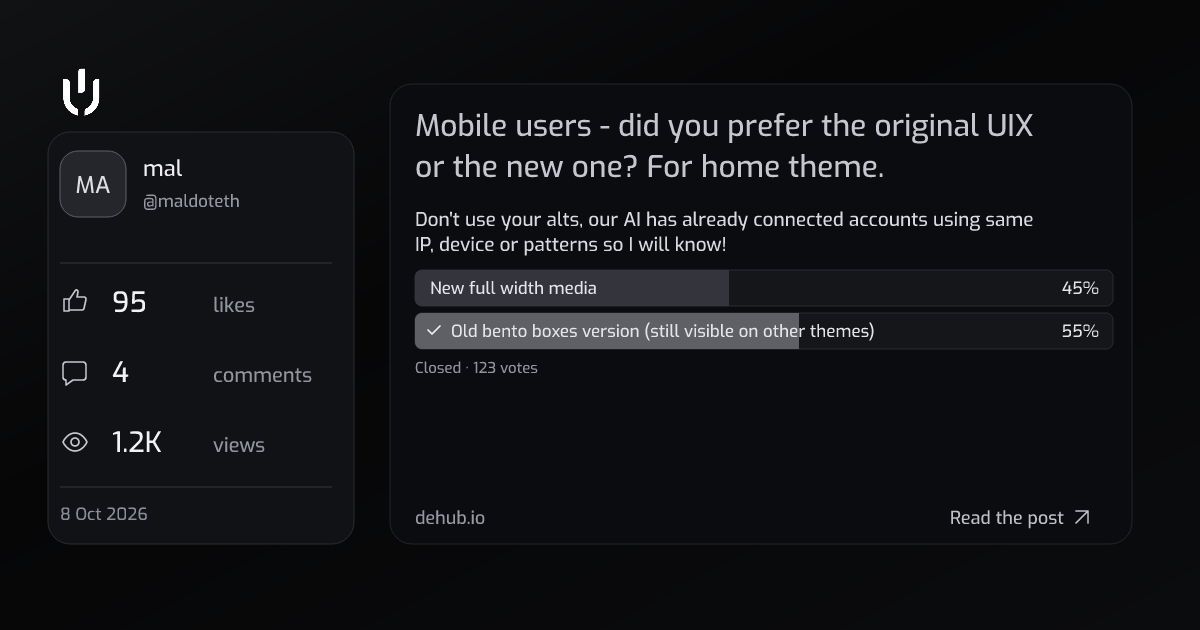
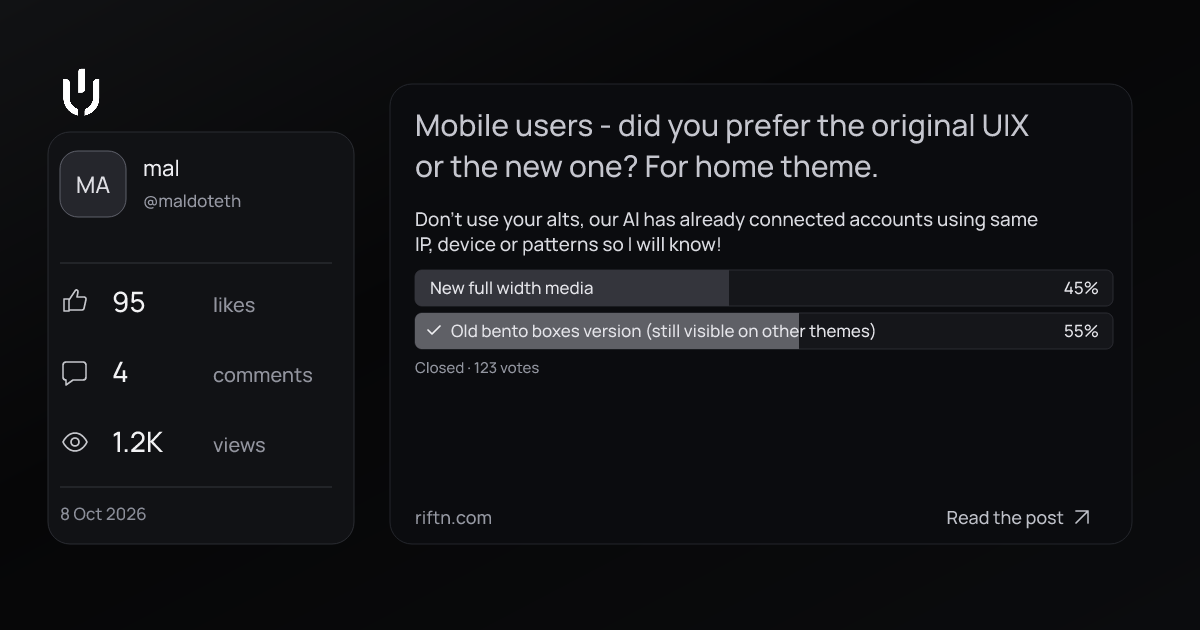
Share cards say riftn.com, blog share pictures load again (#3715)
Post, profile and stage share pictures print riftn.com and use Manrope so accented titles render; card URLs bumped so platforms refetch. Blog and guide previews name their source on dehub.io so the image transform stops refusing them.

diff --git a/server/post-share-card.js b/server/post-share-card.js
@@ -1,4 +1,4 @@
-export const POST_CARD_VERSION = 'v5';
+export const POST_CARD_VERSION = 'v6';
 export const POST_CARD_TTL = 300;
 const ORIGIN = 'https://riftn.com';
 const CDN = 'https://dehubcdn.ams3.cdn.digitaloceanspaces.com';
@@ -265,9 +265,9 @@ function renderMediaPanel(data, media) {
     <rect x="390" y="${caption.length ? 324 : 414}" width="742" height="${caption.length ? 220 : 130}" fill="url(#foot)" clip-path="url(#panel)"/>
     <rect x="390" y="84" width="742" height="460" rx="22" fill="none" stroke="#22242a"/>
     ${play}
-    <g font-family="Exo" font-weight="500">
+    <g font-family="Manrope" font-weight="500">
       ${textLines(caption, 415, captionY, 28, 36, '#f4f4f6')}
-      <text x="415" y="524" font-size="18" fill="#c5c6ce">dehub.io</text>
+      <text x="415" y="524" font-size="18" fill="#c5c6ce">riftn.com</text>
       <text x="1064" y="524" text-anchor="end" font-size="18" fill="#f1f1f4">${data.media.video ? 'Watch on Riftn' : 'View the post'}</text>
       <path d="M1076 523l12-12m-12 0h12v12" fill="none" stroke="#f1f1f4" stroke-width="1.5" stroke-linecap="round" stroke-linejoin="round"/>
     </g>
@@ -312,27 +312,27 @@ export function renderPostCardSvg(data, { logo, avatar = '', badges = [], media 
   <path d="M60 263H332M60 487H332" fill="none" stroke="#33353b"/>
   <image x="43" y="59" width="77" height="66" xlink:href="${logo}"/>
   <rect x="60" y="151" width="66" height="66" rx="18" fill="#25262c" stroke="#5d5f69"/>
-  ${avatar ? `<image x="60" y="151" width="66" height="66" preserveAspectRatio="xMidYMid slice" clip-path="url(#face)" xlink:href="${avatar}"/>` : `<text x="93" y="193" text-anchor="middle" fill="#dedee3" font-family="Exo" font-size="23">${escape(initials)}</text>`}
-  <g font-family="Exo" font-weight="500">
+  ${avatar ? `<image x="60" y="151" width="66" height="66" preserveAspectRatio="xMidYMid slice" clip-path="url(#face)" xlink:href="${avatar}"/>` : `<text x="93" y="193" text-anchor="middle" fill="#dedee3" font-family="Manrope" font-size="23">${escape(initials)}</text>`}
+  <g font-family="Manrope" font-weight="500">
     ${identity.svg}
     <text x="143" y="${identity.handleY}" font-size="17" fill="#9698a3">${escape(wrapPostText(data.handle ? `@${data.handle}` : '', 17, 184, 1)[0] || '')}</text>
     ${stats}
     <text x="60" y="520" font-size="17" fill="#8b8e99">${escape(dateText)}</text>
   </g>
-  ${showMedia ? renderMediaPanel(data, media) : `<g font-family="Exo" font-weight="500">
+  ${showMedia ? renderMediaPanel(data, media) : `<g font-family="Manrope" font-weight="500">
     <g clip-path="url(#copy)">
       ${textLines(title.lines, 415, title.y, title.size, title.step, '#f4f4f6')}
       ${textLines(body.lines, 415, body.y, body.size, body.step, '#c5c6ce')}
       ${renderPoll(poll)}
     </g>
-    <text x="415" y="524" font-size="18" fill="#9699a3">dehub.io</text>
+    <text x="415" y="524" font-size="18" fill="#9699a3">riftn.com</text>
     <text x="1064" y="524" text-anchor="end" font-size="18" fill="#bfc1c9">Read the post</text>
     <path d="M1076 523l12-12m-12 0h12v12" fill="none" stroke="#bfc1c9" stroke-width="1.5" stroke-linecap="round" stroke-linejoin="round"/>
   </g>`}
   </svg>`;
 }
 
-export const PROFILE_CARD_VERSION = 'v1';
+export const PROFILE_CARD_VERSION = 'v2';
 const PROFILE_HANDLE = /^[A-Za-z0-9_][A-Za-z0-9_.-]{0,63}$/;
 
 export function profileShareImageUrl(handle) {
@@ -391,12 +391,12 @@ export function renderProfileCardSvg(data, { logo, avatar = '', chrome = '' }) {
   <rect x="68" y="84" width="1064" height="460" rx="22" fill="#0b0c0f" stroke="#22242a"/>
   <image x="43" y="59" width="77" height="66" xlink:href="${logo}"/>
   <rect x="110" y="190" width="220" height="220" rx="56" fill="#25262c" stroke="#5d5f69"/>
-  ${avatar ? `<image x="110" y="190" width="220" height="220" preserveAspectRatio="xMidYMid slice" clip-path="url(#face)" xlink:href="${avatar}"/>` : `<text x="220" y="325" text-anchor="middle" fill="#dedee3" font-family="Exo" font-size="76">${escape(initials)}</text>`}
-  <g font-family="Exo" font-weight="500">
+  ${avatar ? `<image x="110" y="190" width="220" height="220" preserveAspectRatio="xMidYMid slice" clip-path="url(#face)" xlink:href="${avatar}"/>` : `<text x="220" y="325" text-anchor="middle" fill="#dedee3" font-family="Manrope" font-size="76">${escape(initials)}</text>`}
+  <g font-family="Manrope" font-weight="500">
     ${textLines(name, 380, nameY, 56, 66, '#f4f4f6')}
     <text x="380" y="${handleY}" font-size="28" fill="#9698a3">${escape(wrapPostText(`@${data.handle}`, 28, 640, 1)[0])}</text>
     ${facts ? `<text x="380" y="${handleY + 62}" font-size="26" fill="#d9dae0">${escape(facts)}</text>` : ''}
-    <text x="110" y="508" font-size="18" fill="#9699a3">dehub.io</text>
+    <text x="110" y="508" font-size="18" fill="#9699a3">riftn.com</text>
     <text x="1064" y="508" text-anchor="end" font-size="18" fill="#bfc1c9">Follow on Riftn</text>
     <path d="M1076 507l12-12m-12 0h12v12" fill="none" stroke="#bfc1c9" stroke-width="1.5" stroke-linecap="round" stroke-linejoin="round"/>
   </g>

diff --git a/src/test/structured-data.test.ts b/src/test/structured-data.test.ts
@@ -179,7 +179,7 @@ describe('edge-rendered pages', () => {
     expect(trail['@type']).toBe('BreadcrumbList');
     const image = meta(body, 'og:image')!.replace(/&amp;/g, '&');
     // The post's own banner, read straight from /media and made 1200x630.
-    expect(image).toBe(`https://dehub.io/cdn-cgi/image/fit=cover,width=1200,height=630,format=jpeg,quality=80/https://riftn.com${post.bannerImage}`);
+    expect(image).toBe(`https://dehub.io/cdn-cgi/image/fit=cover,width=1200,height=630,format=jpeg,quality=80/https://dehub.io${post.bannerImage}`);
     expect(meta(body, 'og:image:width')).toBe('1200');
   });
 
@@ -276,7 +276,7 @@ describe('entity pages', () => {
     const { res, body } = await crawl('/app/post/6127/duets');
     expect(res.status).toBe(200);
     expect(meta(body, 'og:title')).toBe('Duets of Dance by @mal | Riftn');
-    expect(meta(body, 'og:image')).toBe('https://riftn.com/_og/post/v5/6127.png');
+    expect(meta(body, 'og:image')).toBe('https://riftn.com/_og/post/v6/6127.png');
     expect(body).toContain('<link rel="canonical" href="https://riftn.com/app/post/6127/duets">');
     expect(types(body)).toContain('CollectionPage');
   });
@@ -286,7 +286,7 @@ describe('entity pages', () => {
     const { res, body } = await crawl('/app/post/6127/reactions');
     expect(res.status).toBe(200);
     expect(meta(body, 'og:title')).toBe('Reactions to Dance by @mal | Riftn');
-    expect(meta(body, 'og:image')).toBe('https://riftn.com/_og/post/v5/6127.png');
+    expect(meta(body, 'og:image')).toBe('https://riftn.com/_og/post/v6/6127.png');
     expect(body).toContain('<link rel="canonical" href="https://riftn.com/app/post/6127/reactions">');
     expect(types(body)).toContain('CollectionPage');
   });
@@ -313,7 +313,7 @@ describe('entity pages', () => {
     expect(types(body)).toContain('OnlineStore');
     expect(types(body)).not.toContain('Store');
     expect(meta(body, 'og:image')).toBe(
-      'https://dehub.io/cdn-cgi/image/fit=cover,width=1200,height=630,format=jpeg,quality=80/https://riftn.com/_og/storage/store-media/abc/banner.png',
+      'https://dehub.io/cdn-cgi/image/fit=cover,width=1200,height=630,format=jpeg,quality=80/https://dehub.io/_og/storage/store-media/abc/banner.png',
     );
     expect(meta(body, 'og:image:width')).toBe('1200');
     expect(meta(body, 'og:image:height')).toBe('630');
@@ -461,8 +461,8 @@ describe('proxied pages', () => {
     const record = { tokenId: 6127, mintername: 'jesse', description: 'Clip night', postType: 'video', videoUrl: 'videos/6127.mp4', thumbnail_url: 'images/6127.jpg' };
     network({ [FN]: html(page), 'https://api.dehub.io/api/nft_info/6127': json({ result: record }) });
     let { body } = await crawl('/app/post/6127');
-    expect(meta(body, 'og:image')).toBe('https://riftn.com/_og/post/v5/6127.png');
-    expect(meta(body, 'twitter:image')).toBe('https://riftn.com/_og/post/v5/6127.png');
+    expect(meta(body, 'og:image')).toBe('https://riftn.com/_og/post/v6/6127.png');
+    expect(meta(body, 'twitter:image')).toBe('https://riftn.com/_og/post/v6/6127.png');
     expect(meta(body, 'twitter:card')).toBe('summary_large_image');
     expect(meta(body, 'og:image:width')).toBe('1200');
     expect(meta(body, 'og:image:height')).toBe('630');
@@ -494,7 +494,7 @@ describe('proxied pages', () => {
     expect(page['@type']).toBe('CollectionPage');
     expect(page.name).toBe('Riftn: community on Riftn');
     expect(meta(body, 'og:image')).toBe(
-      'https://dehub.io/cdn-cgi/image/fit=pad,width=1200,height=630,background=%23000000,format=jpeg,quality=80/https://riftn.com/_og/storage/community-media/dehub/avatar.jpg',
+      'https://dehub.io/cdn-cgi/image/fit=pad,width=1200,height=630,background=%23000000,format=jpeg,quality=80/https://dehub.io/_og/storage/community-media/dehub/avatar.jpg',
     );
     expect(meta(body, 'og:image:width')).toBe('1200');
     expect(meta(body, 'og:image:height')).toBe('630');

diff --git a/CLOUDFLARE_WORKER_SEO.js b/CLOUDFLARE_WORKER_SEO.js
@@ -660,9 +660,9 @@ function buildBlogShareImage(post) {
     const w = Number(post.bannerWidth), h = Number(post.bannerHeight);
     const ratio = w > 0 && h > 0 ? w / h : 1200 / 630;
     const fit = ratio >= 1.75 && ratio <= 2.05 ? CARD_COVER : BLOG_CARD_PAD;
-    return `${IMAGE_TRANSFORM_BASE}${fit}/${banner}`;
+    return `${IMAGE_TRANSFORM_BASE}${fit}/${TRANSFORM_SOURCE_ORIGIN}${banner.slice(APP_URL.length)}`;
   }
-  return `${IMAGE_TRANSFORM_BASE}${CARD_COVER}/${APP_URL}${OG_SOURCE_PREFIX}blog/${encodeURIComponent(post.slug)}`;
+  return `${IMAGE_TRANSFORM_BASE}${CARD_COVER}/${TRANSFORM_SOURCE_ORIGIN}${OG_SOURCE_PREFIX}blog/${encodeURIComponent(post.slug)}`;
 }
 
 /**
@@ -2977,6 +2977,9 @@ async function fetchPostRecord(tokenId) {
 const CDN_ORIGIN = 'https://dehubcdn.ams3.cdn.digitaloceanspaces.com';
 // Image transforms are enabled on the dehub.io zone, which stays ours.
 const IMAGE_TRANSFORM_BASE = 'https://dehub.io/cdn-cgi/image/';
+// The dehub.io transform refuses a riftn.com source (403, another zone), so
+// our own pictures are named on dehub.io; it follows the 301 to riftn.com.
+const TRANSFORM_SOURCE_ORIGIN = 'https://dehub.io';
 
 function transformedImageUrl(url) {
   if (!url.startsWith(`${CDN_ORIGIN}/`)) return url;
@@ -3021,7 +3024,7 @@ function shareCardImage(url) {
   let source = null;
   if (src.startsWith(`${CDN_ORIGIN}/`)) source = src;
   else if (src.startsWith(`${SUPABASE_STORAGE_PUBLIC}/`)) {
-    source = `${APP_URL}${OG_SOURCE_PREFIX}storage/${src.slice(SUPABASE_STORAGE_PUBLIC.length + 1)}`;
+    source = `${TRANSFORM_SOURCE_ORIGIN}${OG_SOURCE_PREFIX}storage/${src.slice(SUPABASE_STORAGE_PUBLIC.length + 1)}`;
   }
   if (!source) return null;
   const options = /\/avatars?[/_.-]/i.test(src) ? CARD_PAD : CARD_COVER;
@@ -6719,7 +6722,7 @@ async function handleRequest(request, env, ctx) {
   // Share-card sources for the image transform (see shareCardImage). Ahead of
   // the `/_` static-asset skip below, which would hand these to ASSETS.
   // Older installed apps and already-shared URLs continue to receive the current card.
-  const textPostCard = pathname.match(/^\/_og\/post\/v(?:1|2|3|4|5)\/([1-9]\d{0,14})\.png$/);
+  const textPostCard = pathname.match(/^\/_og\/post\/v(?:1|2|3|4|5|6)\/([1-9]\d{0,14})\.png$/);
   if (textPostCard) {
     const { handlePostShareImage } = await import('./server/post-share-image.js');
     return handlePostShareImage(request, env, ctx, textPostCard[1], fetchPostRecord, {
@@ -6727,12 +6730,12 @@ async function handleRequest(request, env, ctx) {
       price: fetchShareBadgePrice,
     });
   }
-  const profileCard = pathname.match(/^\/_og\/profile\/v1\/([A-Za-z0-9_][A-Za-z0-9_.-]{0,63})\.png$/);
+  const profileCard = pathname.match(/^\/_og\/profile\/v(?:1|2)\/([A-Za-z0-9_][A-Za-z0-9_.-]{0,63})\.png$/);
   if (profileCard) {
     const { handleProfileShareImage } = await import('./server/post-share-image.js');
     return handleProfileShareImage(request, env, ctx, profileCard[1], fetchAccountInfo);
   }
-  const stageCard = pathname.match(/^\/_og\/stage\/v[12]\/([0-9a-fA-F-]{16,64})\.png$/);
+  const stageCard = pathname.match(/^\/_og\/stage\/v[123]\/([0-9a-fA-F-]{16,64})\.png$/);
   if (stageCard) {
     const { handleStageShareImage } = await import('./server/stage-share-image.js');
     return handleStageShareImage(request, env, ctx, stageCard[1], supabaseLookup);

diff --git a/src/pages/app/StatsPage.tsx b/src/pages/app/StatsPage.tsx
@@ -858,14 +858,14 @@ export default function StatsPage() {
     <div className="min-h-screen">
       <SEOHead
         title={_copy("copy.1340eb7a333e", { defaultValue: "Live Site Stats: Riftn Visitors and Members in Real Time" })}
-        description={_copy("copy.e1110847f32e", { defaultValue: "Live numbers for dehub.io: visitors measured at Cloudflare's edge, Riftn's own member counts, and what the platform earns and spends — revenue, costs and where the original token tax went, with every on-chain line linked to its transaction." })}
+        description={_copy("copy.e1110847f32e", { defaultValue: "Live numbers for riftn.com: visitors measured at Cloudflare's edge, Riftn's own member counts, and what the platform earns and spends — revenue, costs and where the original token tax went, with every on-chain line linked to its transaction." })}
         url="https://riftn.com/stats"
         image="https://riftn.com/og/stats.jpg"
         jsonLd={{
           '@context': 'https://schema.org',
           '@type': 'Dataset',
           name: 'Riftn live site statistics',
-          description: _copy("copy.67ae514e929e", { defaultValue: "Edge-measured visitor statistics for dehub.io alongside the platform’s own community figures — members, active users, signups and growth — published live." }),
+          description: _copy("copy.67ae514e929e", { defaultValue: "Edge-measured visitor statistics for riftn.com alongside the platform’s own community figures — members, active users, signups and growth — published live." }),
           url: 'https://riftn.com/stats',
           creator: { '@type': 'Organization', name: 'Riftn' },
           isAccessibleForFree: true,

diff --git a/server/stage-share-card.js b/server/stage-share-card.js
@@ -10,7 +10,7 @@
 import { buildStageCover, stageCoverTitleScale } from '../src/lib/stage-cover.ts';
 import { wrapPostText } from './post-share-card.js';
 
-export const STAGE_CARD_VERSION = 'v2';
+export const STAGE_CARD_VERSION = 'v3';
 const ORIGIN = 'https://riftn.com';
 
 export function stageShareImageUrl(id) {
@@ -120,6 +120,6 @@ export function renderStageCardSvg(stage, images = {}) {
   ${kv ? `<text x="${n(left)}" y="${kvY}" font-family="Consolas" font-size="${kvSize}" fill="#fff" fill-opacity=".6">${escape(wrapPostText(kv, kvSize, 56 * U, 1)[0] || '')}</text>` : ''}
 
   <rect x="${n(left)}" y="${n(H - 4.2 * U - 3.1 * U)}" width="${n(18.4 * U)}" height="${n(3.1 * U)}" rx="${n(0.5 * U)}" fill="#000" fill-opacity=".35" stroke="#fff" stroke-opacity=".3" stroke-width="1.5"/>
-  <text x="${n(left + 1.4 * U)}" y="${n(H - 4.2 * U - 1.05 * U)}" font-family="Consolas" font-size="${n(1.5 * U)}" fill="#fff" fill-opacity=".85">// dehub.io/stages</text>
+  <text x="${n(left + 1.4 * U)}" y="${n(H - 4.2 * U - 1.05 * U)}" font-family="Consolas" font-size="${n(1.5 * U)}" fill="#fff" fill-opacity=".85">// riftn.com/stages</text>
 </svg>`;
 }

diff --git a/src/components/app/profile/UsernameReserve.tsx b/src/components/app/profile/UsernameReserve.tsx
@@ -133,7 +133,7 @@ export function UsernameReserve({ username, onTaken, preview }: Props) {
       ) : null}
 
       <p className="mb-6 max-w-[340px] text-sm leading-relaxed text-zinc-400 [text-wrap:balance]">
-        {state === 'avail' && t('profile.reserve.availableBody', { defaultValue: 'dehub.io/{{name}} is free right now. Reserve it and we hold it for one minute while you sign up.', name })}
+        {state === 'avail' && t('profile.reserve.availableBody', { defaultValue: 'riftn.com/{{name}} is free right now. Reserve it and we hold it for one minute while you sign up.', name })}
         {state === 'held' && t('profile.reserve.heldBody', { defaultValue: 'Nobody else can take @{{name}} until the timer runs out. Finish sign up to keep it.', name })}
         {state === 'ended' && t('profile.reserve.endedBody', { defaultValue: 'Your minute ran out, so @{{name}} is open to everyone again. It is still free.', name })}
         {state === 'busy' && t('profile.reserve.busyBody', { defaultValue: 'Someone is signing up as @{{name}} right now. If they do not finish, it frees up when the timer ends.', name })}

diff --git a/server/post-share-image.js b/server/post-share-image.js
@@ -14,7 +14,7 @@ const bytesToUri = (bytes, type) => {
 };
 
 async function loadAssets(env) {
-  if (!assets) assets = Promise.all(['/brand-kit/font/exo-500.ttf', '/brand/mark-white.png'].map(async (path) => {
+  if (!assets) assets = Promise.all(['/brand-kit/font/manrope-500.ttf', '/brand/mark-white.png'].map(async (path) => {
     const response = await env.ASSETS.fetch(new Request(`https://riftn.com${path}`));
     if (!response.ok || response.headers.get('Content-Type')?.includes('text/html')) throw new Error('Share card asset unavailable');
     return new Uint8Array(await response.arrayBuffer());
@@ -84,7 +84,7 @@ async function brandCard(request, env, headers, reason) {
 }
 
 function renderPng(svg, font) {
-  const renderer = new Resvg(svg, { font: { fontBuffers: [font], defaultFontFamily: 'Exo' } });
+  const renderer = new Resvg(svg, { font: { fontBuffers: [font], defaultFontFamily: 'Manrope' } });
   let rendered;
   try { rendered = renderer.render(); return rendered.asPng(); }
   finally { rendered?.free(); renderer.free(); }

diff --git a/src/features/post/components/ArticleComposer.tsx b/src/features/post/components/ArticleComposer.tsx
@@ -186,7 +186,7 @@ export function ArticleComposer(props: ArticleComposerProps) {
               <div className="space-y-1 p-3">
                 <p className="article-ink line-clamp-1 text-sm font-semibold">{title.trim()}</p>
                 <p className="article-meta line-clamp-2 text-xs">{summary.trim() || t('articles.summaryPlaceholder', 'A sentence or two about your article')}</p>
-                <p className="article-meta text-[11px]">{_copy("copy.bf640b85d499", { defaultValue: "dehub.io · " })}{t('articles.minRead', { count: minutes, defaultValue: '{{count}} min read' })}</p>
+                <p className="article-meta text-[11px]">{_copy("copy.bf640b85d499", { defaultValue: "riftn.com · " })}{t('articles.minRead', { count: minutes, defaultValue: '{{count}} min read' })}</p>
               </div>
             </div>
           </section>

diff --git a/src/pages/app/ProfilePage.tsx b/src/pages/app/ProfilePage.tsx
@@ -569,7 +569,7 @@ export default function ProfilePage() {
             home title, index,follow and a self canonical. */}
         <SEOHead
           title={showReserve ? t('profile.reserve.seoTitle', { defaultValue: '@{{name}} is available on Riftn', name: displayUsername.toLowerCase() }) : `${t('notFound.title')} | Riftn`}
-          description={showReserve ? t('profile.reserve.seoDescription', { defaultValue: 'Nobody has dehub.io/{{name}} yet. Reserve it and sign up to make it yours.', name: displayUsername.toLowerCase() }) : t('profile.notFound')}
+          description={showReserve ? t('profile.reserve.seoDescription', { defaultValue: 'Nobody has riftn.com/{{name}} yet. Reserve it and sign up to make it yours.', name: displayUsername.toLowerCase() }) : t('profile.notFound')}
           noindex
           noCanonical
         />

diff --git a/src/contexts/StageContext.tsx b/src/contexts/StageContext.tsx
@@ -487,7 +487,7 @@ function describeStageFailure(err: unknown): string {
   const message = e.message || '';
 
   if (name === 'NotAllowedError' || name === 'PermissionDeniedError' || /permission denied/i.test(message)) {
-    return _translateCopy("copy.8cf2f5e1ffb4", { defaultValue: "Riftn needs microphone access to put you on air — allow it for dehub.io and try again." });
+    return _translateCopy("copy.8cf2f5e1ffb4", { defaultValue: "Riftn needs microphone access to put you on air — allow it for riftn.com and try again." });
   }
   if (name === 'NotFoundError' || name === 'NotReadableError' || name === 'OverconstrainedError') {
     return _translateCopy("copy.85494984469a", { defaultValue: "No microphone available. Check nothing else is using it and try again." });

diff --git a/src/components/app/profile/ProfileHeader.tsx b/src/components/app/profile/ProfileHeader.tsx
@@ -403,7 +403,7 @@ export function ProfileHeader({
                     trackShare('copy_link', { kind: 'profile' });
                     toast.success(_copy("copy.0877581001b8", { defaultValue: "ENS profile URL copied to clipboard" }));
                   }}
-                  title={_copy("copy.9f8fb573515e", { defaultValue: "Verified ENS name: dehub.io/{{value1}}", value1: profile.ensName })}
+                  title={_copy("copy.9f8fb573515e", { defaultValue: "Verified ENS name: riftn.com/{{value1}}", value1: profile.ensName })}
                   className="rounded-md bg-zinc-800/60 px-2 py-0.5 text-xs text-zinc-300 transition-colors hover:bg-zinc-700/50 hover:text-white"
                 >
                   {profile.ensName}

diff --git a/src/pages/docs/Dapp.tsx b/src/pages/docs/Dapp.tsx
@@ -865,7 +865,7 @@ const Dapp = () => {
               <div className="space-y-6">
                 <a href="https://riftn.com/dpay" target="_blank" rel="noopener noreferrer" className="flex items-center justify-between p-4 bg-muted rounded-lg border hover:bg-muted/80 transition-colors cursor-pointer">
                   <div>
-                    <h4 className="font-semibold text-foreground font-exo">dehub.io/dpay</h4>
+                    <h4 className="font-semibold text-foreground font-exo">riftn.com/dpay</h4>
                     <p className="text-muted-foreground font-exo">{t('dapp.dpayDesc')}</p>
                   </div>
                   <ExternalLink className="w-5 h-5 text-muted-foreground" />
